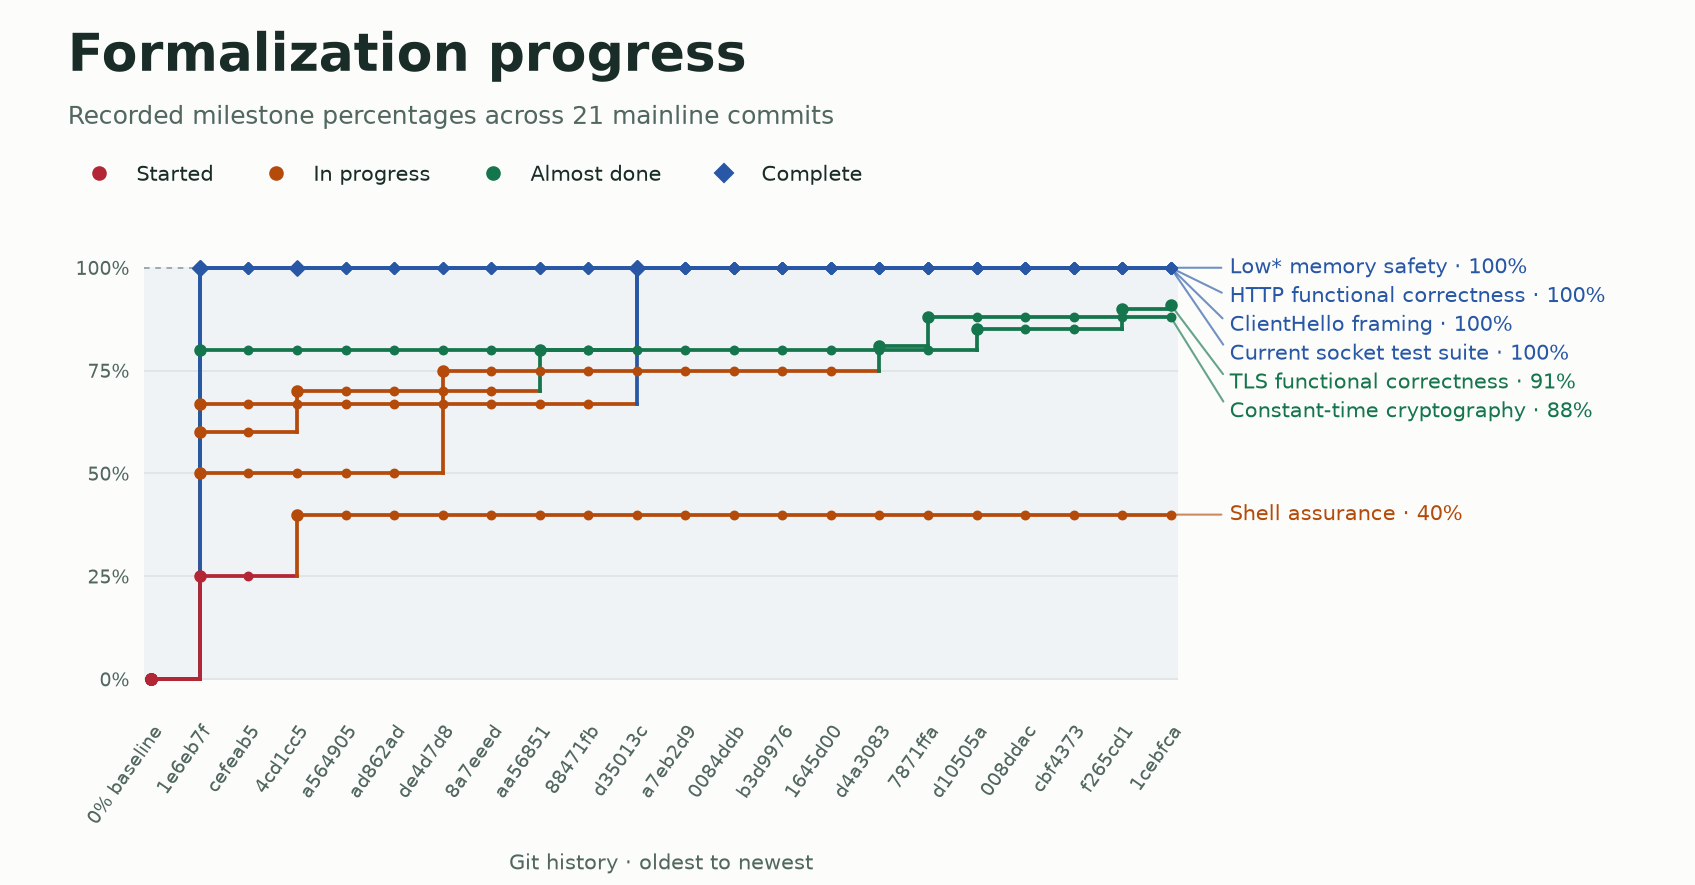
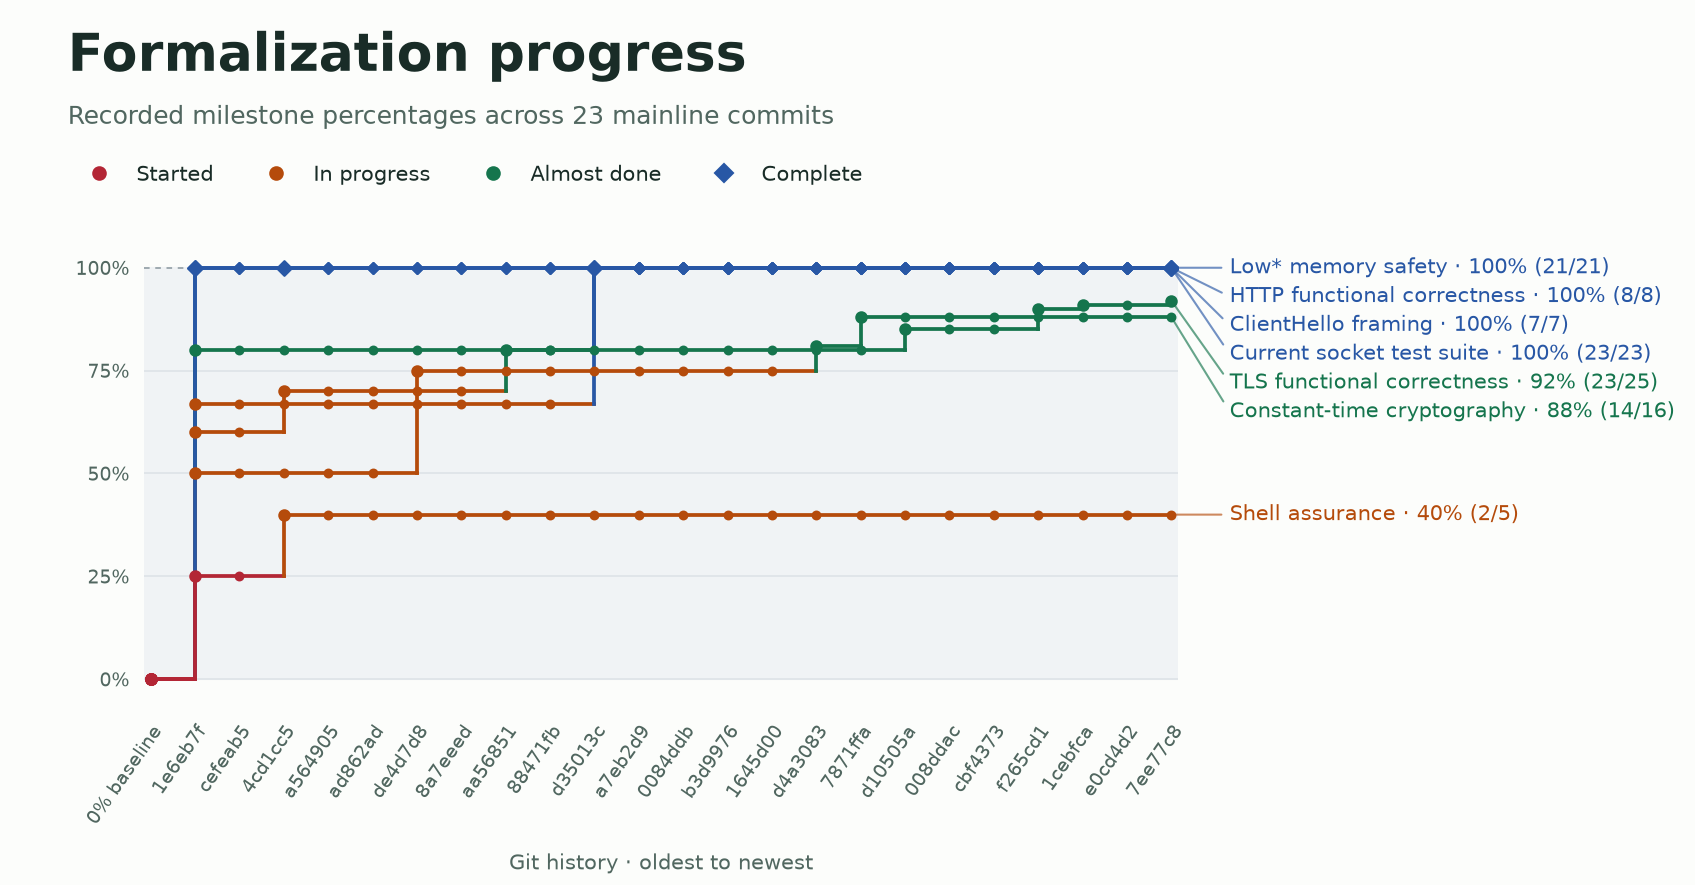
Refresh formalization chart and show milestone counts

diff --git a/tools/plot_progress.py b/tools/plot_progress.py
@@ -150,13 +150,13 @@ def draw(snapshots, output):
     last = len(revisions) - 1
     ordered = sorted(latest.items(), key=lambda item: item[1][0], reverse=True)
     label_y = 107
-    for i, (label, (percent, _, status)) in enumerate(ordered):
+    for i, (label, (percent, fraction, status)) in enumerate(ordered):
         # Keep labels readable when several traces end at the same percentage.
         minimum = 7 * (len(ordered) - i - 1)
         label_y = max(minimum, min(percent, label_y - 7))
         _, color, _ = STATUS_STYLES[status]
         axis.annotate(
-            f"{label} · {percent}%", xy=(last, percent), xytext=(1.05, label_y),
+            f"{label} · {percent}% ({fraction})", xy=(last, percent), xytext=(1.05, label_y),
             textcoords=axis.get_yaxis_transform(), va="center", color=color, fontsize=10,
             arrowprops={"arrowstyle": "-", "color": color, "linewidth": 1, "alpha": 0.65, "relpos": (0, 0.5)},
         )
